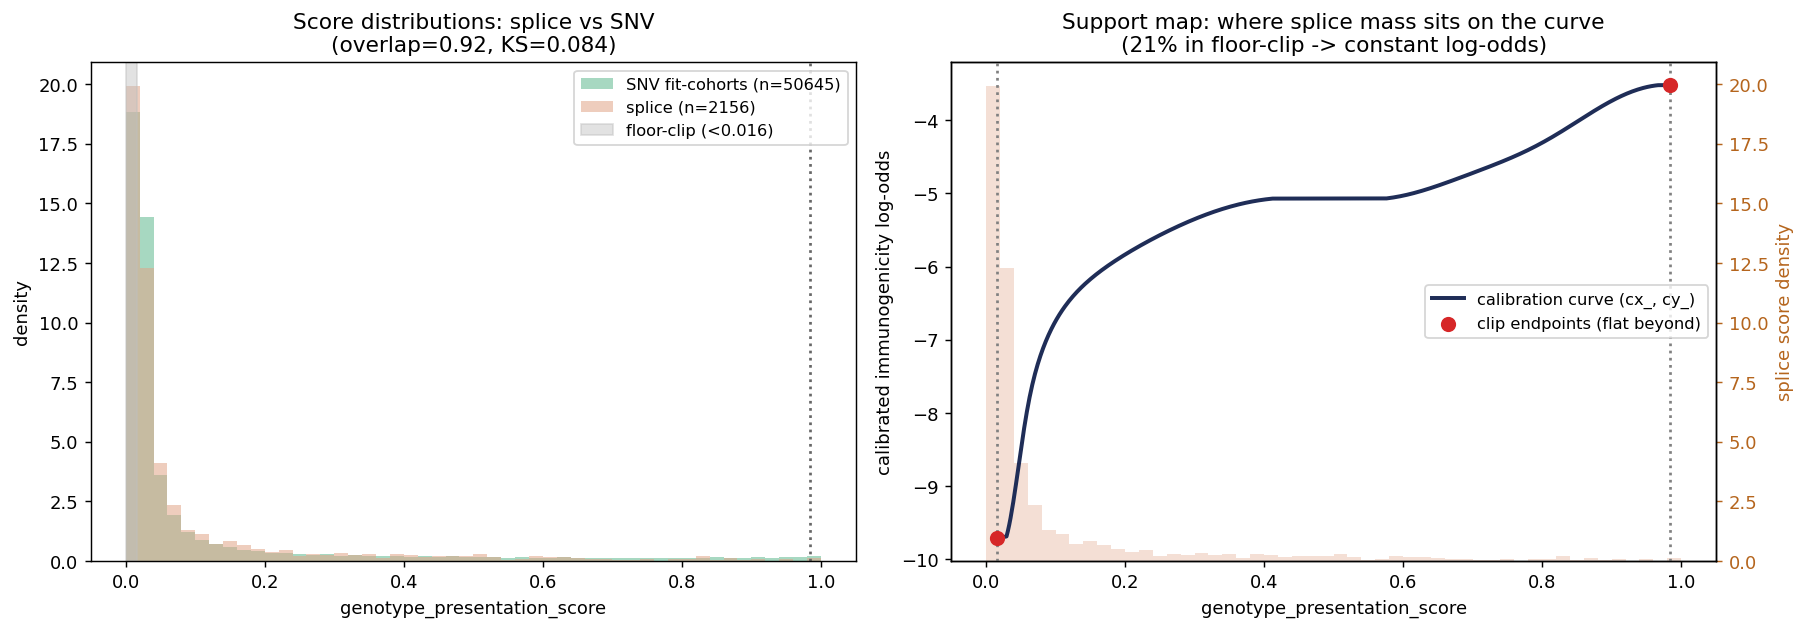
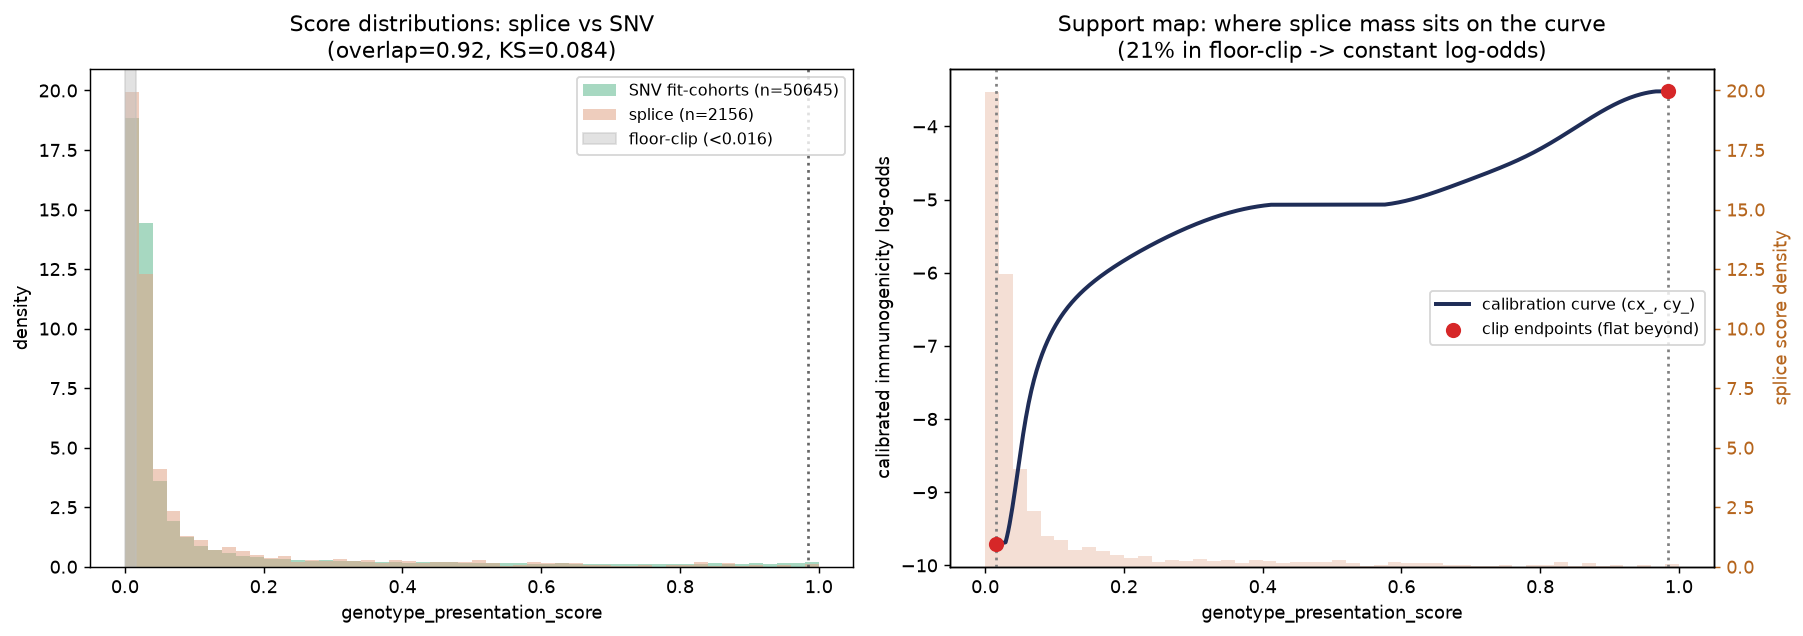
research(scientist): align #873 verdict to decided #709 contract + address bot review (#826)
- Rename flag calibration_floor_clipped -> out_of_calibration_support (floor AND ceil)
- Add provisional SECONDARY-signal guardrail; presentation_score stays primary ranker
- Name #870 as the provisional discharge condition (not a general #680 pointer)
- Add quantitative SNV floor-clip proof (13.5%): flat floor intrinsic to calibrator, not splice shift
- Document SNV reference is the label-stratified fit subsample (1.27% positives); KS-p large-n caveat
- Remove dead EXP.name branch (bot finding 1); re-execute notebook, numbers unchanged

diff --git a/research/lab_notebook/scientist.md b/research/lab_notebook/scientist.md
@@ -6,6 +6,26 @@ Format and rules unchanged from the unified notebook — see `shared/feedback_la
 
 ---
 
+## 2026-06-26
+
+### 10:45 UTC — Editor: Scientist
+
+#### [PR #873](https://github.com/Jin-HoMLee/splice-neoepitope-pipeline/pull/873) — addressed `@claude` review on the splice-applicability gate + aligned the verdict to the decided [Issue #709](https://github.com/Jin-HoMLee/splice-neoepitope-pipeline/issues/709) column contract — closes [Issue #826](https://github.com/Jin-HoMLee/splice-neoepitope-pipeline/issues/826)
+
+**Context.** PR #873 (the label-free SNV→splice applicability gate for `calibrator_v1`) came back `@claude`-reviewed = "approve in spirit" — science correct, no blockers, all findings minor/enhancement. Addressed the review plus a contract-alignment gap my prospective notes flagged.
+
+**Contract alignment (the load-bearing fix).** The shipped README + notebook verdict had drifted from the contract decided in #826 and already corrected on the [#709](https://github.com/Jin-HoMLee/splice-neoepitope-pipeline/issues/709) cross-role comment (live to Developer). Re-aligned both surfaces to three points: (1) the calibrated column is a **provisional SECONDARY** ranking signal — `genotype_presentation_score` stays **primary** (guardrail: splice immunogenicity is unvalidated, so it must not drive primary ranking); (2) flag renamed `calibration_floor_clipped` → **`out_of_calibration_support`**, now covering both floor- *and* ceil-clip (the concept is out-of-support, not just the floor mechanism); (3) the provisional label's discharge condition is [#870](https://github.com/Jin-HoMLee/splice-neoepitope-pipeline/issues/870) (validate SNV→splice on measured labels), not a general #680 pointer.
+
+**Bot finding 2 — quantitative floor-clip proof, with an honest correction.** Added the SNV fit-cohort's own floor-clip fraction to the notebook: **13.5%** at the same `cx_[0]=0.0163`. This makes the load-bearing claim reproducible — the flat floor is intrinsic to the fitted curve, not a splice covariate-shift artifact. Notably it is **13.5%, not ≈21.4%** as the reviewer guessed: splice floor-clips modestly more (21.4%), reflecting somewhat more near-non-presenters, but both clearly populate the floor region (no shift obstacle). Wrote it to the data, not to the reviewer's expected equality.
+
+**Clarifying-Q (the SNV reference) — material finding.** The reviewer asked whether `scored_cohort_subsample.parquet` preserves the score marginal. It does **not** strictly: `score_cohort.py:217` keeps all 645 positives + 50,000 cohort-stratified negatives (label-stratified, not plain random). But (a) positives are only **1.27%** of rows, so the marginal is ~98.7% the negative subsample; and (b) this subsample **is the exact data `calibrator_v1` was fit on**, so it is the correct "where did the calibrator see data" reference by construction. Documented transparently in both surfaces rather than claiming a plain random sample.
+
+**Bot findings 1 + 3.** Removed a dead `if EXP.name == "applicability"` branch + its misleading comment (the notebook never lives in an `applicability/` subdir). Added a note that the KS p-value (4.86e-13) is a large-`n` artifact — the KS *statistic* (0.084) + overlap (0.92) are load-bearing, not the p-value. Finding 4 (committed local-path leak in a cell output) left as-is, non-blocking per repo convention.
+
+**Re-execution.** Re-ran the notebook headless (`research/.venv` nbconvert); all numbers reproduced unchanged (78.4 / 21.4 / 0.19, overlap 0.924, KS 0.084) plus the new 13.5% SNV floor-clip. Figure regenerated, content-identical.
+
+---
+
 ## 2026-06-23
 
 ### 10:53 UTC — Editor: Scientist

diff --git a/research/experiments/issue_547_immunogenicity_calibration/README.md b/research/experiments/issue_547_immunogenicity_calibration/README.md
@@ -260,10 +260,17 @@ Splice scores are the `genotype_presentation_score`s from the production patient
 | Score-support | floor-clipped mass (`< cx_[0] ≈ 0.0163`) | **21.4%** | flat constant −9.71 log-odds; near-non-presenters |
 | Score-support | ceil-clipped mass (`> cx_[-1] ≈ 0.9839`) | **0.19%** | negligible |
 
-**Verdict — provisional GO.** The SNV→splice transfer is *in-support*: there is no covariate-shift obstacle (overlap 0.92, KS 0.084 — splice scores live almost exactly where the calibrator was fit) and 78% of splice mass is interpolated.
-The 21% floor-clip is **not** a shift artifact (those low scores exist in the SNV data too) but an extrapolation-flatness one, and it lands on peptides with `genotype_presentation_score < 0.016` — near-non-presenters that a flat low log-odds scores *correctly* (lowest presenters → lowest immunogenicity), so it is benign for ranking rather than misleading.
-This is a **label-free applicability gate, not an accuracy validation** — it certifies the transfer is in-support, *not* that the calibrated values are correct for splice neoepitopes; accuracy remains [Issue #680](https://github.com/Jin-HoMLee/splice-neoepitope-pipeline/issues/680).
-**Conditions routed to [Issue #709](https://github.com/Jin-HoMLee/splice-neoepitope-pipeline/issues/709)** (production wiring): (1) the calibrated column is labeled **provisional** (splice-immunogenicity unvalidated, pending [Issue #680](https://github.com/Jin-HoMLee/splice-neoepitope-pipeline/issues/680)); (2) floor-clipped rows carry a `calibration_floor_clipped` flag so the flat-extrapolation region stays transparent downstream.
+**Verdict — provisional GO.** The SNV→splice transfer is *in-support*: there is no covariate-shift obstacle (overlap 0.92, KS 0.084 — splice scores live almost exactly where the calibrator was fit) and 78.4% of splice mass is interpolated.
+The 21.4% floor-clip is **not** a covariate-shift artifact but an extrapolation-flatness property of the calibrator itself: the SNV fit-cohort *also* floor-clips **13.5%** of its own mass at the same `cx_[0] ≈ 0.0163`, so the flat low log-odds beyond the knot is intrinsic to the fitted curve, not a splice-specific gap. (Splice floor-clips modestly more — 21.4% vs 13.5% — reflecting somewhat more near-non-presenters, but well within the populated SNV range.)
+The floor-clip lands on peptides with `genotype_presentation_score < 0.0163` — near-non-presenters that a flat low log-odds scores *correctly* (lowest presenters → lowest immunogenicity), so it is benign for ranking rather than misleading.
+This is a **label-free applicability gate, not an accuracy validation** — it certifies the transfer is in-support, *not* that the calibrated values are correct for splice neoepitopes; accuracy on measured splice labels remains [Issue #870](https://github.com/Jin-HoMLee/splice-neoepitope-pipeline/issues/870), under the open benchmark [Issue #680](https://github.com/Jin-HoMLee/splice-neoepitope-pipeline/issues/680).
+
+> **Reference note.** The SNV comparand is `outputs/scored_cohort_subsample.parquet` (n=50,645) — the exact data `calibrator_v1` was fit on, so it is the correct "where did the calibrator see data" reference by construction. It is label-stratified (all 645 positives + 50,000 cohort-stratified negatives), but positives are only **1.27%** of rows, so the score marginal is ~98.7% set by the negative subsample and the enrichment does not meaningfully skew the overlap/KS comparison. The KS p-value (4.86e-13) is a large-`n` artifact — at n=50,645 the test rejects on any trivial difference — so the KS *statistic* (0.084) and overlap (0.92) are the load-bearing readings, not the p-value.
+
+**Conditions routed to [Issue #709](https://github.com/Jin-HoMLee/splice-neoepitope-pipeline/issues/709)** (production wiring):
+1. The calibrated column is a **provisional SECONDARY ranking signal** — `genotype_presentation_score` stays the **primary** ranker; the calibrated immunogenicity log-odds augments, never replaces it. (Load-bearing guardrail: splice immunogenicity is unvalidated, so it must not drive primary ranking.)
+2. Rows whose `genotype_presentation_score` falls **outside** the interpolation support `[cx_[0], cx_[-1]] ≈ [0.0163, 0.9839]` carry an **`out_of_calibration_support`** flag — covering both the 21.4% floor-clip **and** the 0.19% ceil-clip, where `transform()` returns a flat constant — so the flat-extrapolation region stays transparent downstream and is never mistaken for a fitted value.
+3. The **provisional** label is discharged by [Issue #870](https://github.com/Jin-HoMLee/splice-neoepitope-pipeline/issues/870) (validate the SNV→splice transfer on measured splice labels), not by a general [Issue #680](https://github.com/Jin-HoMLee/splice-neoepitope-pipeline/issues/680) pointer.
 
 ## Cross-experiment deps
 